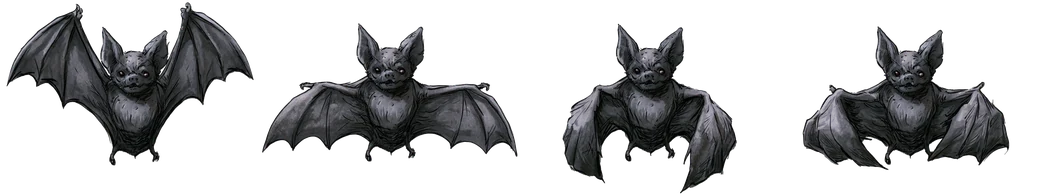
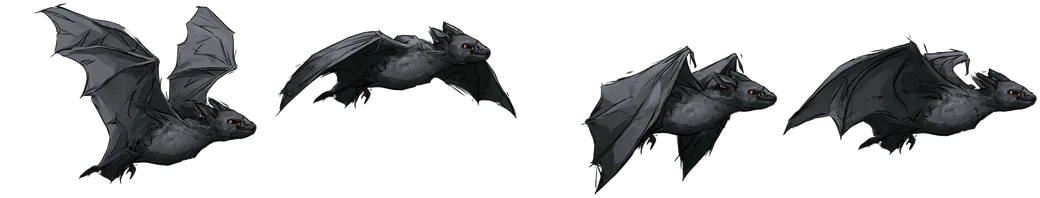
Side-view bats: opaque, darker, faster
Claude-Session: https://claude.ai/code/session_01WW2JHhtCaz4XjUQKLVP8vo

diff --git a/Scoundrel/Web/style.css b/Scoundrel/Web/style.css
@@ -62,24 +62,22 @@ button { font: inherit; color: inherit; border: 0; background: none; padding: 0;
 @media (prefers-reduced-motion: reduce) { .fog i, .fog.on { animation: none; } }
 .bats { position: absolute; left: 0; right: 0; top: 0; height: calc(var(--bgh, 60%) * .72); z-index: -1; overflow: hidden; pointer-events: none; }
 .bat { position: absolute; left: 0; top: 0; width: var(--bw, 34px); will-change: transform; animation: batfly var(--bt, 4.5s) linear forwards; }
-.bat .bob { animation: batbob .9s ease-in-out infinite alternate; }
+.bat .bob { animation: batbob .6s ease-in-out infinite alternate; }
 .bat .batimg {
-  display: block; width: 100%; aspect-ratio: 260 / 150;
-  background: url('assets/ui/bat.webp') 0 0 / 600% 100% no-repeat;
-  animation: batflap var(--flap, .5s) steps(6) infinite;
-  filter: drop-shadow(0 2px 3px rgba(0,0,0,.45));
+  display: block; width: 100%; aspect-ratio: 260 / 309;
+  background: url('assets/ui/bat.webp') 0 0 / 400% 100% no-repeat;
+  animation: batflap var(--flap, .4s) steps(4) infinite;
+  filter: brightness(.72) contrast(1.05) drop-shadow(0 2px 3px rgba(0,0,0,.55));
 }
-@keyframes batflap { from { background-position: 0% 0; } to { background-position: 120% 0; } }
-.bat .batimg.v2 { aspect-ratio: 260 / 196; background-image: url('assets/ui/bat2.webp'); background-size: 400% 100%; animation-name: batflap4; animation-timing-function: steps(4); }
-@keyframes batflap4 { from { background-position: 0% 0; } to { background-position: 133.333% 0; } }
+@keyframes batflap { from { background-position: 0% 0; } to { background-position: 133.333% 0; } }
+.bat .batimg.v2 { aspect-ratio: 260 / 198; background-image: url('assets/ui/bat2.webp'); }
 @keyframes batbob { from { transform: translateY(-10px); } to { transform: translateY(10px); } }
 @keyframes batfly {
-  0%   { transform: translate(var(--x0), var(--y0)) scale(var(--sx), 1); opacity: 0; }
-  8%   { opacity: var(--bo, .8); }
+  0%   { transform: translate(var(--x0), var(--y0)) scale(var(--sx), 1); }
   50%  { transform: translate(calc((var(--x0) + var(--x1)) / 2), var(--ym)) scale(var(--sx), 1); }
-  92%  { opacity: var(--bo, .8); }
-  100% { transform: translate(var(--x1), var(--y1)) scale(var(--sx), 1); opacity: 0; }
+  100% { transform: translate(var(--x1), var(--y1)) scale(var(--sx), 1); }
 }
+
 .sparks { position: absolute; left: 0; right: 0; top: 0; height: calc(var(--bgh, 60%) * .8); z-index: -1; overflow: hidden; pointer-events: none; }
 .spark {
   position: absolute; width: var(--s, 2px); height: var(--s, 2px); border-radius: 50%;

diff --git a/Scoundrel/Web/ui.js b/Scoundrel/Web/ui.js
@@ -782,9 +782,8 @@
         b.style.setProperty('--y1', y1.toFixed(0) + 'px');
         b.style.setProperty('--ym', ((y0 + y1) / 2 + r(-40, 40)).toFixed(0) + 'px');
         b.style.setProperty('--sx', ltr ? '1' : '-1');
-        b.style.setProperty('--bt', r(3.2, 5.5).toFixed(1) + 's');
-        b.style.setProperty('--flap', r(.42, .6).toFixed(2) + 's');
-        b.style.setProperty('--bo', r(.55, .85).toFixed(2));
+        b.style.setProperty('--bt', r(1.6, 2.6).toFixed(1) + 's');
+        b.style.setProperty('--flap', r(.32, .44).toFixed(2) + 's');
         b.addEventListener('animationend', function (e) { if (e.target === b) b.remove(); });
         box.appendChild(b);
       }

diff --git a/Scoundrel/Web/sw.js b/Scoundrel/Web/sw.js
@@ -1,5 +1,5 @@
 /* Offline cache for the browser / home-screen version. Not used inside the iOS app. */
-var CACHE = 'scoundrel-v53';
+var CACHE = 'scoundrel-v54';
 var FILES = [
   './',
   'art.js',
